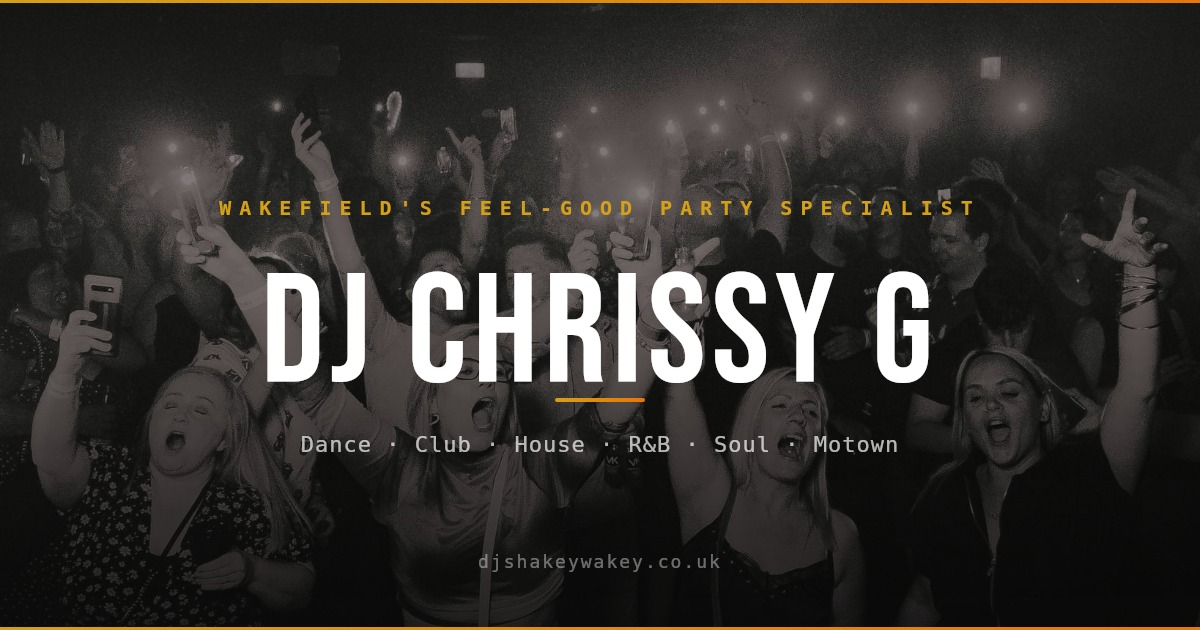
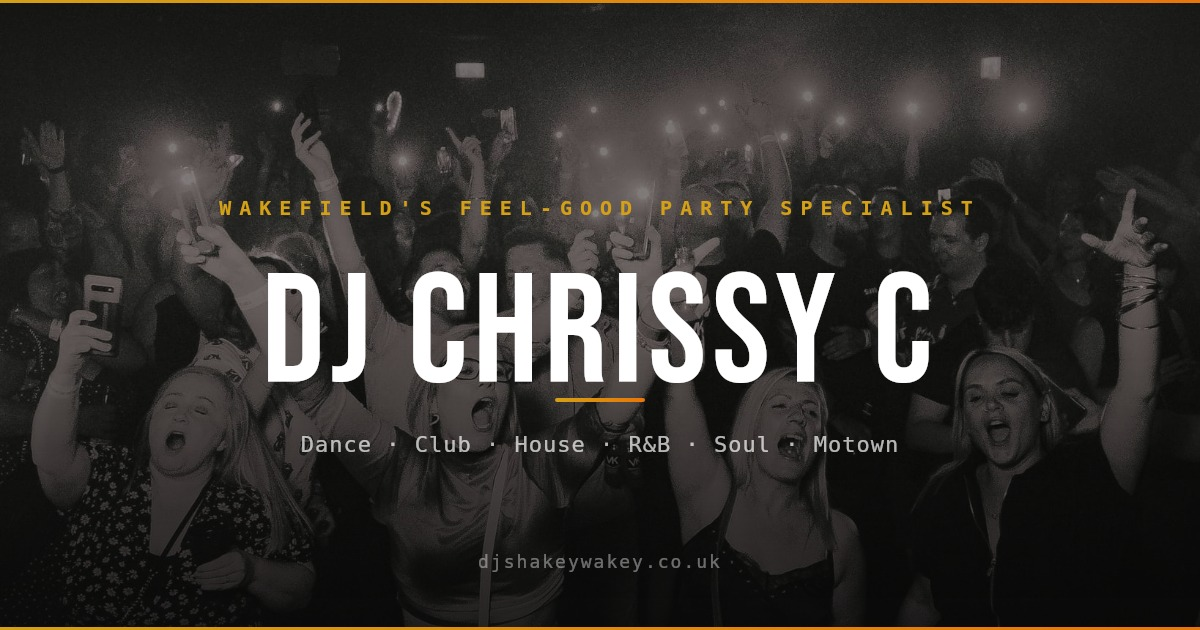
Update the DJ's name to Chrissy C across the website and assets
Replaced all instances of "Chrissy G" with "Chrissy C" in HTML, JSX files, and the generated OG image. Also updated the WhatsApp message placeholder.

Replit-Commit-Author: Agent
Replit-Commit-Session-Id: 5cb1c7bd-532d-4c42-85fd-ee522ecdc079
Replit-Commit-Checkpoint-Type: full_checkpoint
Replit-Commit-Event-Id: 78bbdcfa-23d3-4a4f-ac52-dbb40f544167
Replit-Commit-Screenshot-Url: https://storage.googleapis.com/screenshot-production-us-central1/e7e321d1-9085-46f2-b4d4-0cda42ad08c7/5cb1c7bd-532d-4c42-85fd-ee522ecdc079/F5axSMi
Replit-Helium-Checkpoint-Created: true

diff --git a/src/pages/Home.jsx b/src/pages/Home.jsx
@@ -19,8 +19,8 @@ function AnimatedSection({ children, className = '', delay = 0 }) {
 const galleryImages = [
   { src: '/images/hero-confetti.jpg', alt: 'Home Before Dark - Confetti Celebration' },
   { src: '/images/crowd-phones.jpg', alt: 'Crowd at Home Before Dark' },
-  { src: '/images/dj-arms-wide.jpg', alt: 'DJ Chrissy G at Home Before Dark' },
-  { src: '/images/dj-mixing.jpg', alt: 'DJ Chrissy G on Pioneer decks' },
+  { src: '/images/dj-arms-wide.jpg', alt: 'DJ Chrissy C at Home Before Dark' },
+  { src: '/images/dj-mixing.jpg', alt: 'DJ Chrissy C on Pioneer decks' },
   { src: '/images/about-me.jpg', alt: 'Home Before Dark club night' },
   { src: '/images/dance-floor.jpg', alt: 'Wedding dance floor setup' },
 ]
@@ -60,7 +60,7 @@ export default function Home() {
             Wakefield's Feel-Good Party Specialist
           </p>
           <h1 className="font-display text-7xl md:text-[9rem] lg:text-[11rem] leading-none text-white mb-6">
-            DJ Chrissy G
+            DJ Chrissy C
           </h1>
           <div className="gold-line mx-auto mb-8" />
           <p className="text-white/70 text-base md:text-lg max-w-xl mx-auto leading-relaxed mb-10">
@@ -69,7 +69,7 @@ export default function Home() {
           </p>
           <div className="flex flex-col sm:flex-row gap-4 justify-center">
             <Link to="/contact" className="btn-gold">
-              Book DJ Chrissy G
+              Book DJ Chrissy C
             </Link>
             <Link to="/events" className="btn-outline-gold">
               View Events
@@ -98,10 +98,10 @@ export default function Home() {
               </h2>
               <div className="gold-line mx-auto mb-8" />
               <p className="text-white/60 leading-relaxed text-base mb-6">
-                DJ Chrissy G is a versatile and dynamic DJ based in Wakefield, known for delivering high-energy sets with a polished, feel-good vibe. With a music catalogue spanning the 60s, 70s, 80s, 00s, 10s and today, Chrissy brings together classic hits and modern favourites to create unforgettable party atmospheres for all ages.
+                DJ Chrissy C is a versatile and dynamic DJ based in Wakefield, known for delivering high-energy sets with a polished, feel-good vibe. With a music catalogue spanning the 60s, 70s, 80s, 00s, 10s and today, Chrissy brings together classic hits and modern favourites to create unforgettable party atmospheres for all ages.
               </p>
               <p className="text-white/60 leading-relaxed text-base mb-10">
-                Professional, tidy, and always fun - DJ Chrissy G delivers the ultimate soundtrack to your night, where great music meets good vibes, every single time.
+                Professional, tidy, and always fun - DJ Chrissy C delivers the ultimate soundtrack to your night, where great music meets good vibes, every single time.
               </p>
               <Link to="/about" className="btn-gold">
                 Learn More
@@ -113,7 +113,7 @@ export default function Home() {
             <div className="relative">
               <img
                 src="/images/dj-arms-wide.jpg"
-                alt="DJ Chrissy G at Home Before Dark"
+                alt="DJ Chrissy C at Home Before Dark"
                 className="w-full object-cover"
                 style={{ height: '560px', objectPosition: 'top' }}
               />
@@ -207,7 +207,7 @@ export default function Home() {
             </h2>
             <div className="gold-line mx-auto mb-8" />
             <p className="text-white/60 text-base leading-relaxed mb-10">
-              From weddings and birthday parties to club nights and corporate events - DJ Chrissy G brings the music, the atmosphere, and the full experience.
+              From weddings and birthday parties to club nights and corporate events - DJ Chrissy C brings the music, the atmosphere, and the full experience.
             </p>
             <Link to="/contact" className="btn-gold">
               Get In Touch

diff --git a/src/pages/About.jsx b/src/pages/About.jsx
@@ -43,7 +43,7 @@ export default function About() {
     <main>
       <PageHero
         title="About Me"
-        subtitle="DJ Chrissy G"
+        subtitle="DJ Chrissy C"
         bgImage="/images/dj-mixing.jpg"
       />
 
@@ -52,17 +52,17 @@ export default function About() {
           <AnimatedSection>
             <p className="text-[#D4A017] text-xs tracking-[0.3em] uppercase font-semibold mb-4">The DJ</p>
             <h2 className="font-display text-5xl md:text-6xl text-white mb-6">
-              DJ Chrissy G
+              DJ Chrissy C
             </h2>
             <div className="gold-line mb-8" />
             <p className="text-white/70 leading-relaxed text-base mb-6">
-              DJ Chrissy G is a versatile and dynamic DJ based in Wakefield, known for delivering high-energy sets with a polished, feel-good vibe. With a music catalogue spanning the 60s, 70s, 80s, 00s, 10s and today, Chrissy brings together classic hits and modern favourites to create unforgettable party atmospheres for all ages.
+              DJ Chrissy C is a versatile and dynamic DJ based in Wakefield, known for delivering high-energy sets with a polished, feel-good vibe. With a music catalogue spanning the 60s, 70s, 80s, 00s, 10s and today, Chrissy brings together classic hits and modern favourites to create unforgettable party atmospheres for all ages.
             </p>
             <p className="text-white/70 leading-relaxed text-base mb-6">
               Specialising in <span className="text-[#D4A017] font-semibold">Dance, Club, Trance, House, R&B, Soul, Old School and Motown</span>, Chrissy blends timeless grooves with floor-filling anthems, keeping crowds moving from the first track to the last.
             </p>
             <p className="text-white/70 leading-relaxed text-base mb-10">
-              Professional, energetic and always fun - DJ Chrissy G brings the music, the atmosphere and the full experience, turning every event into a night to remember.
+              Professional, energetic and always fun - DJ Chrissy C brings the music, the atmosphere and the full experience, turning every event into a night to remember.
             </p>
 
             <div className="flex flex-wrap gap-2 mb-10">
@@ -85,7 +85,7 @@ export default function About() {
             <div className="relative">
               <img
                 src="/images/dj-arms-wide.jpg"
-                alt="DJ Chrissy G at Home Before Dark"
+                alt="DJ Chrissy C at Home Before Dark"
                 className="w-full object-cover object-top"
                 style={{ height: '600px' }}
               />

diff --git a/index.html b/index.html
@@ -5,23 +5,23 @@
     <link rel="icon" type="image/png" href="/images/logo.png" />
     <meta name="viewport" content="width=device-width, initial-scale=1.0" />
 
-    <title>DJ Chrissy G | Wakefield's Feel-Good Party Specialist</title>
-    <meta name="description" content="DJ Chrissy G — Wakefield's Feel-Good Party Specialist. Professional DJ for weddings, club nights, private events and celebrations across Yorkshire." />
+    <title>DJ Chrissy C | Wakefield's Feel-Good Party Specialist</title>
+    <meta name="description" content="DJ Chrissy C — Wakefield's Feel-Good Party Specialist. Professional DJ for weddings, club nights, private events and celebrations across Yorkshire." />
 
     <!-- Open Graph / Facebook / WhatsApp -->
     <meta property="og:type" content="website" />
-    <meta property="og:site_name" content="DJ Chrissy G" />
-    <meta property="og:title" content="DJ Chrissy G | Wakefield's Feel-Good Party Specialist" />
-    <meta property="og:description" content="Dance, Club, House, R&B, Soul &amp; Motown. Book DJ Chrissy G for your wedding, club night or private event." />
+    <meta property="og:site_name" content="DJ Chrissy C" />
+    <meta property="og:title" content="DJ Chrissy C | Wakefield's Feel-Good Party Specialist" />
+    <meta property="og:description" content="Dance, Club, House, R&B, Soul &amp; Motown. Book DJ Chrissy C for your wedding, club night or private event." />
     <meta property="og:image" content="/og-image.jpg" />
     <meta property="og:image:width" content="1200" />
     <meta property="og:image:height" content="630" />
-    <meta property="og:image:alt" content="DJ Chrissy G — Wakefield's Feel-Good Party Specialist" />
+    <meta property="og:image:alt" content="DJ Chrissy C — Wakefield's Feel-Good Party Specialist" />
 
     <!-- Twitter Card -->
     <meta name="twitter:card" content="summary_large_image" />
-    <meta name="twitter:title" content="DJ Chrissy G | Wakefield's Feel-Good Party Specialist" />
-    <meta name="twitter:description" content="Dance, Club, House, R&B, Soul &amp; Motown. Book DJ Chrissy G for your wedding, club night or private event." />
+    <meta name="twitter:title" content="DJ Chrissy C | Wakefield's Feel-Good Party Specialist" />
+    <meta name="twitter:description" content="Dance, Club, House, R&B, Soul &amp; Motown. Book DJ Chrissy C for your wedding, club night or private event." />
     <meta name="twitter:image" content="/og-image.jpg" />
 
     <link rel="preconnect" href="https://fonts.googleapis.com" />

diff --git a/src/pages/Events.jsx b/src/pages/Events.jsx
@@ -73,7 +73,7 @@ export default function Events() {
     <main>
       <PageHero
         title="Events"
-        subtitle="DJ Chrissy G"
+        subtitle="DJ Chrissy C"
         bgImage="/images/hero-confetti.jpg"
       />
 
@@ -146,7 +146,7 @@ export default function Events() {
               <h2 className="font-display text-5xl md:text-7xl text-white mb-4">Gallery</h2>
               <div className="gold-line mx-auto mb-6" />
               <p className="text-white/50 max-w-2xl mx-auto text-sm leading-relaxed">
-                Step into the world of DJ Chrissy G - capturing the energy, fun, and professionalism that define every event. From pulsing dancefloors to behind-the-scenes shots at the DJ booth.
+                Step into the world of DJ Chrissy C - capturing the energy, fun, and professionalism that define every event. From pulsing dancefloors to behind-the-scenes shots at the DJ booth.
               </p>
             </div>
           </AnimatedSection>
@@ -188,7 +188,7 @@ export default function Events() {
               Get in touch and let's make your next event one to remember.
             </p>
             <Link to="/contact" className="btn-gold">
-              Book DJ Chrissy G
+              Book DJ Chrissy C
             </Link>
           </div>
         </AnimatedSection>

diff --git a/src/pages/Contact.jsx b/src/pages/Contact.jsx
@@ -60,7 +60,7 @@ export default function Contact() {
     <main>
       <PageHero
         title="Contact"
-        subtitle="Book DJ Chrissy G"
+        subtitle="Book DJ Chrissy C"
         bgImage="/images/dj-mixing.jpg"
       />
 
@@ -78,7 +78,7 @@ export default function Contact() {
                 <CheckCircle size={48} className="text-[#D4A017] mx-auto mb-4" />
                 <h3 className="font-display text-3xl text-white mb-3">Message Sent!</h3>
                 <p className="text-white/60 text-sm leading-relaxed">
-                  Thanks for getting in touch. DJ Chrissy G will be in contact with you soon to discuss your event.
+                  Thanks for getting in touch. DJ Chrissy C will be in contact with you soon to discuss your event.
                 </p>
               </div>
             ) : (
@@ -292,7 +292,7 @@ export default function Contact() {
               <div className="relative overflow-hidden" style={{ height: '240px' }}>
                 <img
                   src="/images/dj-arms-wide.jpg"
-                  alt="DJ Chrissy G"
+                  alt="DJ Chrissy C"
                   className="w-full h-full object-cover object-top"
                 />
                 <div className="image-overlay absolute inset-0" />

diff --git a/src/components/Footer.jsx b/src/components/Footer.jsx
@@ -78,7 +78,7 @@ export default function Footer() {
 
         <div className="border-t border-[#1a1a1a] pt-8 flex flex-col md:flex-row justify-between items-center gap-3">
           <p className="text-white/30 text-xs tracking-wide">
-            &copy; {new Date().getFullYear()} DJ Chrissy G. All rights reserved.
+            &copy; {new Date().getFullYear()} DJ Chrissy C. All rights reserved.
           </p>
           <p className="text-white/20 text-xs">
             djshakeywakey.co.uk

diff --git a/src/components/WhatsAppButton.jsx b/src/components/WhatsAppButton.jsx
@@ -1,7 +1,7 @@
 import { useState } from 'react'
 
 const WHATSAPP_NUMBER = '447830291463'
-const WHATSAPP_MESSAGE = encodeURIComponent("Hi! I'd like to enquire about booking DJ Chrissy G for my event.")
+const WHATSAPP_MESSAGE = encodeURIComponent("Hi! I'd like to enquire about booking DJ Chrissy C for my event.")
 
 export default function WhatsAppButton() {
   const [open, setOpen] = useState(false)

diff --git a/scripts/generate-og.js b/scripts/generate-og.js
@@ -61,7 +61,7 @@ async function generate() {
   ctx.font = '400 155px BebasNeue'
   ctx.fillStyle = 'white'
   ctx.textAlign = 'center'
-  ctx.fillText('DJ CHRISSY G', W / 2, 380)
+  ctx.fillText('DJ CHRISSY C', W / 2, 380)
 
   // Gold divider line
   ctx.fillStyle = goldGrad(W / 2 - 45, W / 2 + 45)
